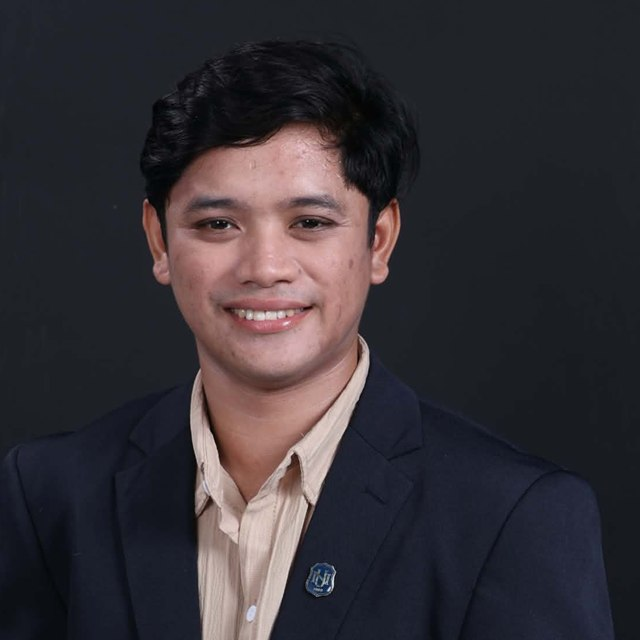
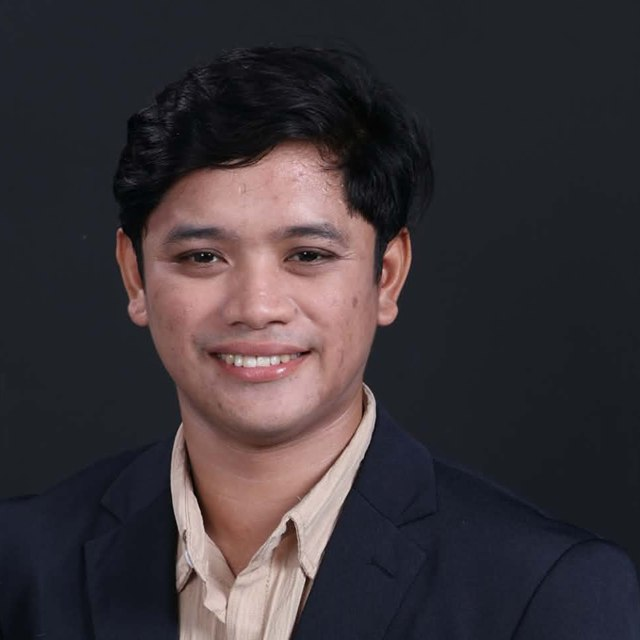
newest

diff --git a/src/components/Avatar.jsx b/src/components/Avatar.jsx
@@ -38,7 +38,7 @@ function Avatar({ size = 40, fontSize, ring = false, className = '' }) {
           alt=""
           draggable="false"
           onError={() => setFailed(true)}
-          className="absolute inset-0 h-full w-full object-cover object-top"
+          className="absolute inset-0 h-full w-full object-cover object-center"
         />
       )}
     </span>
